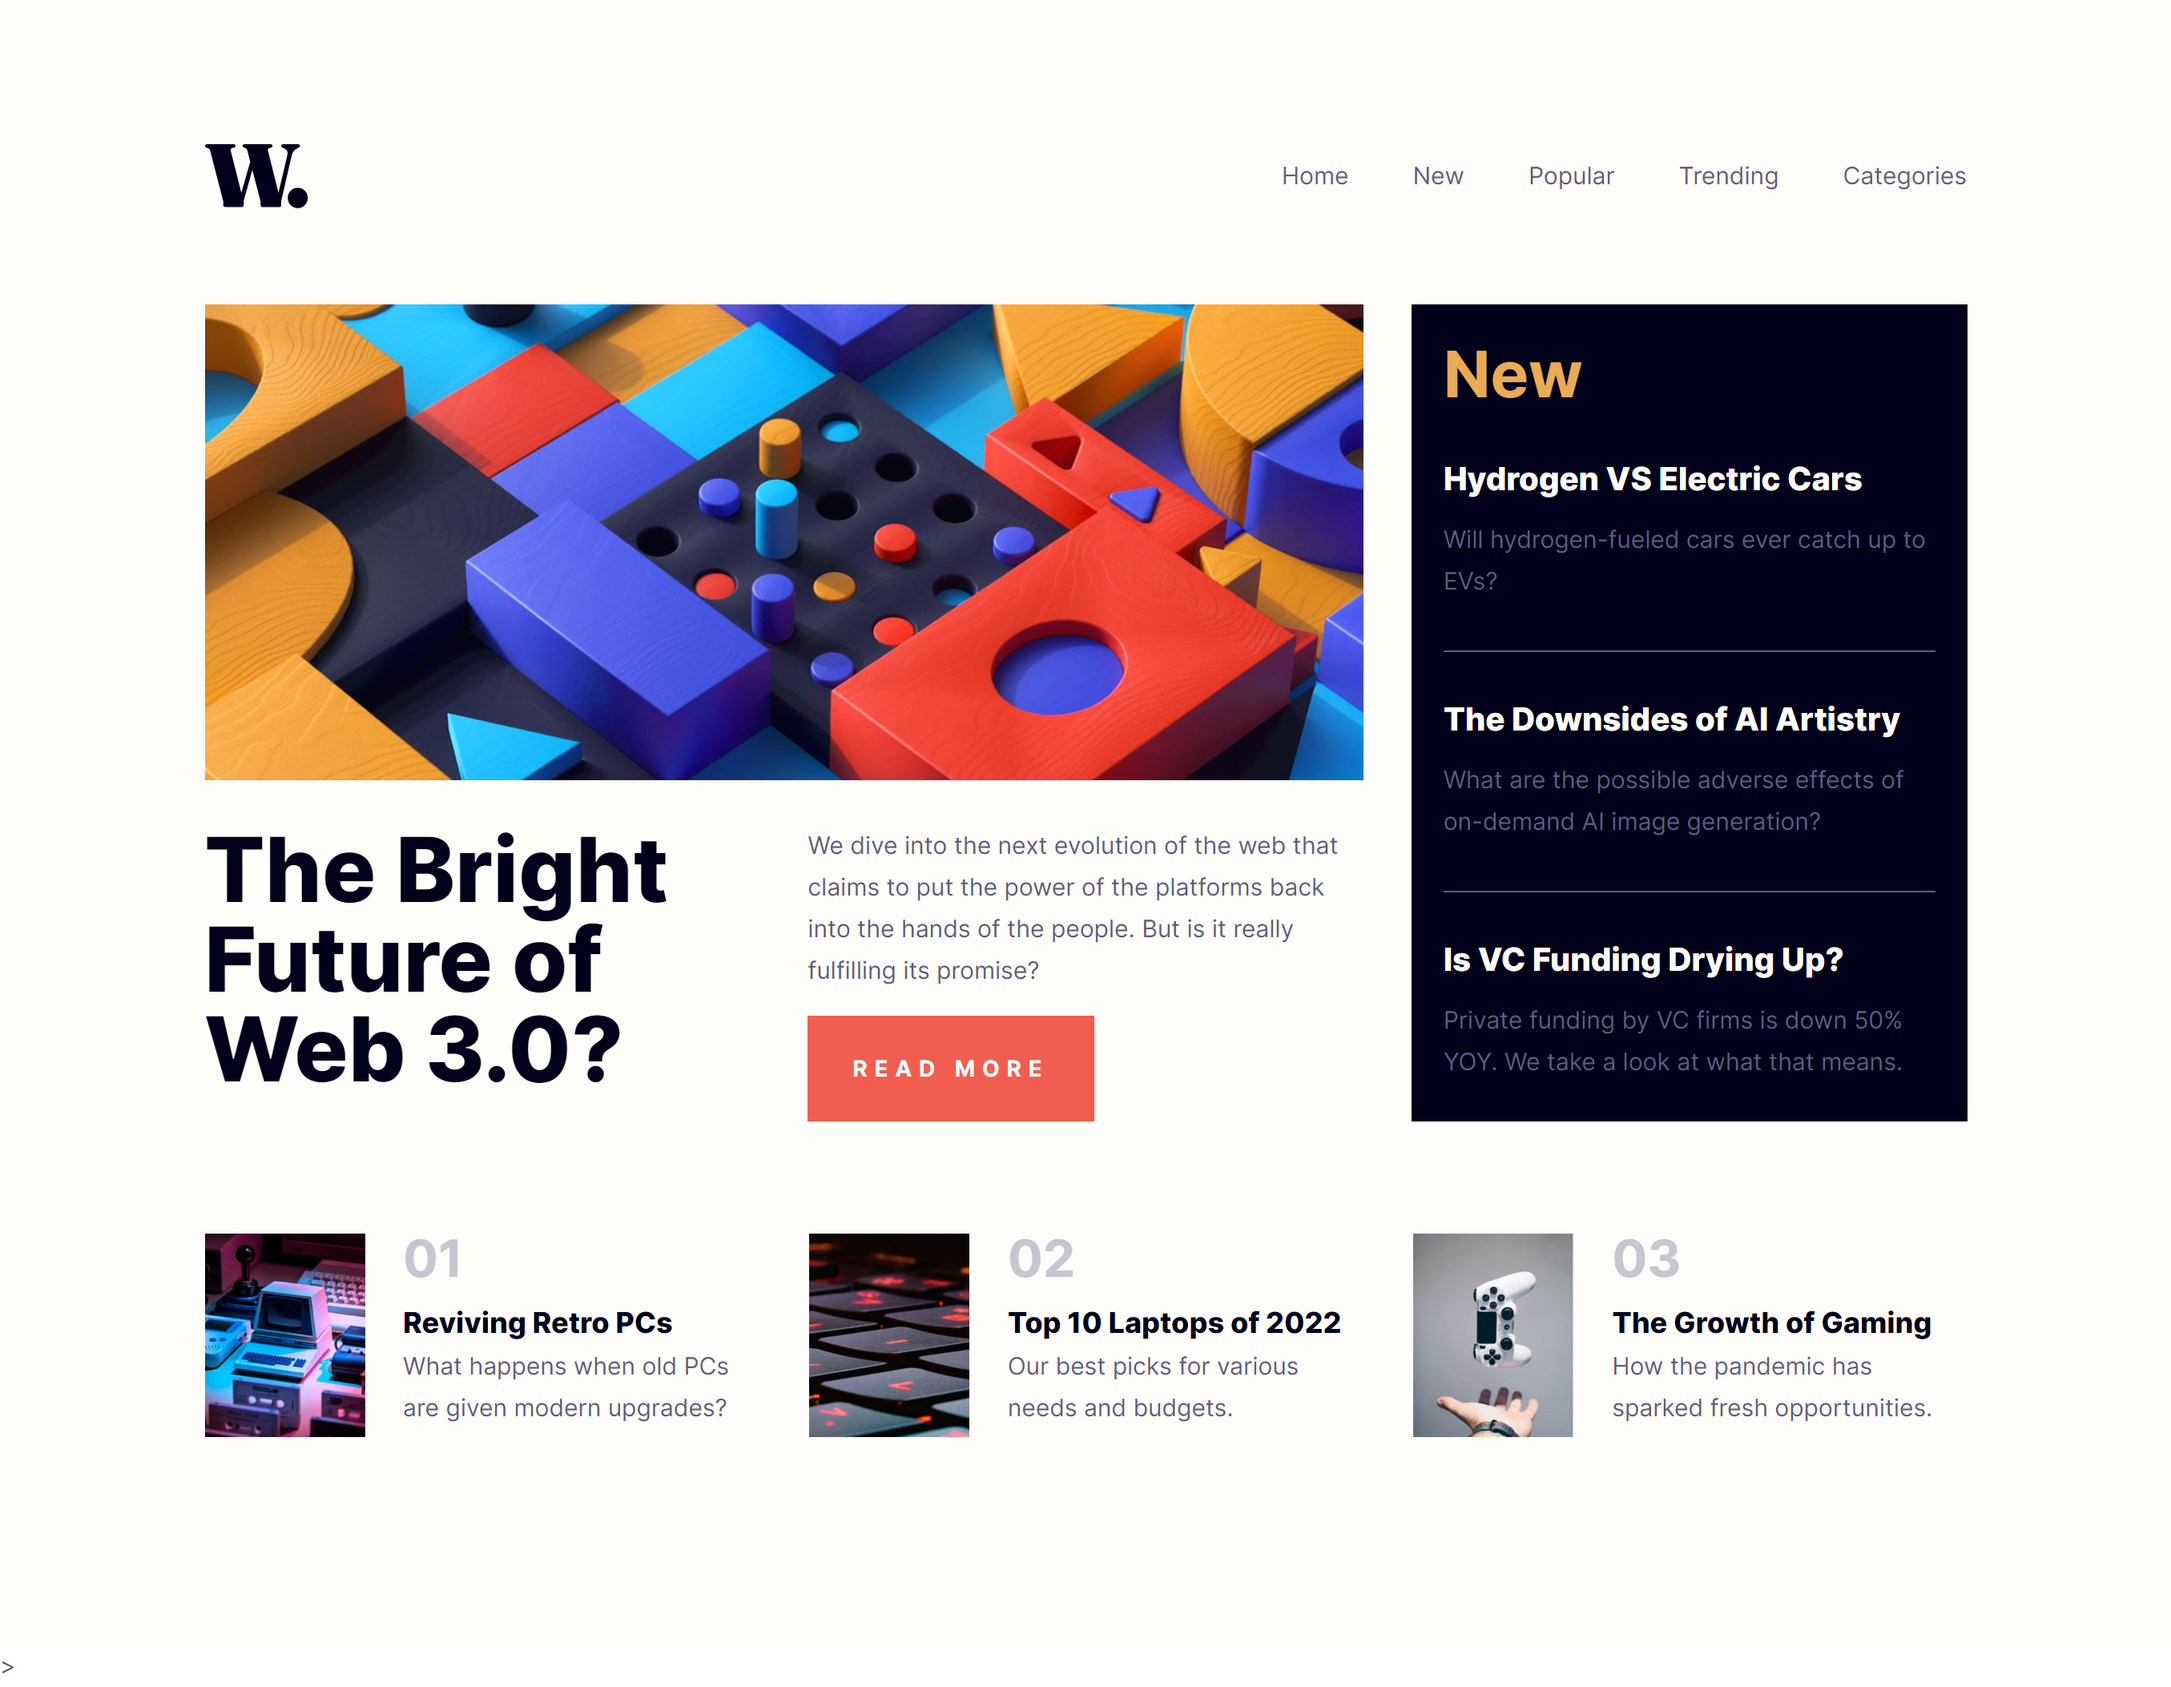
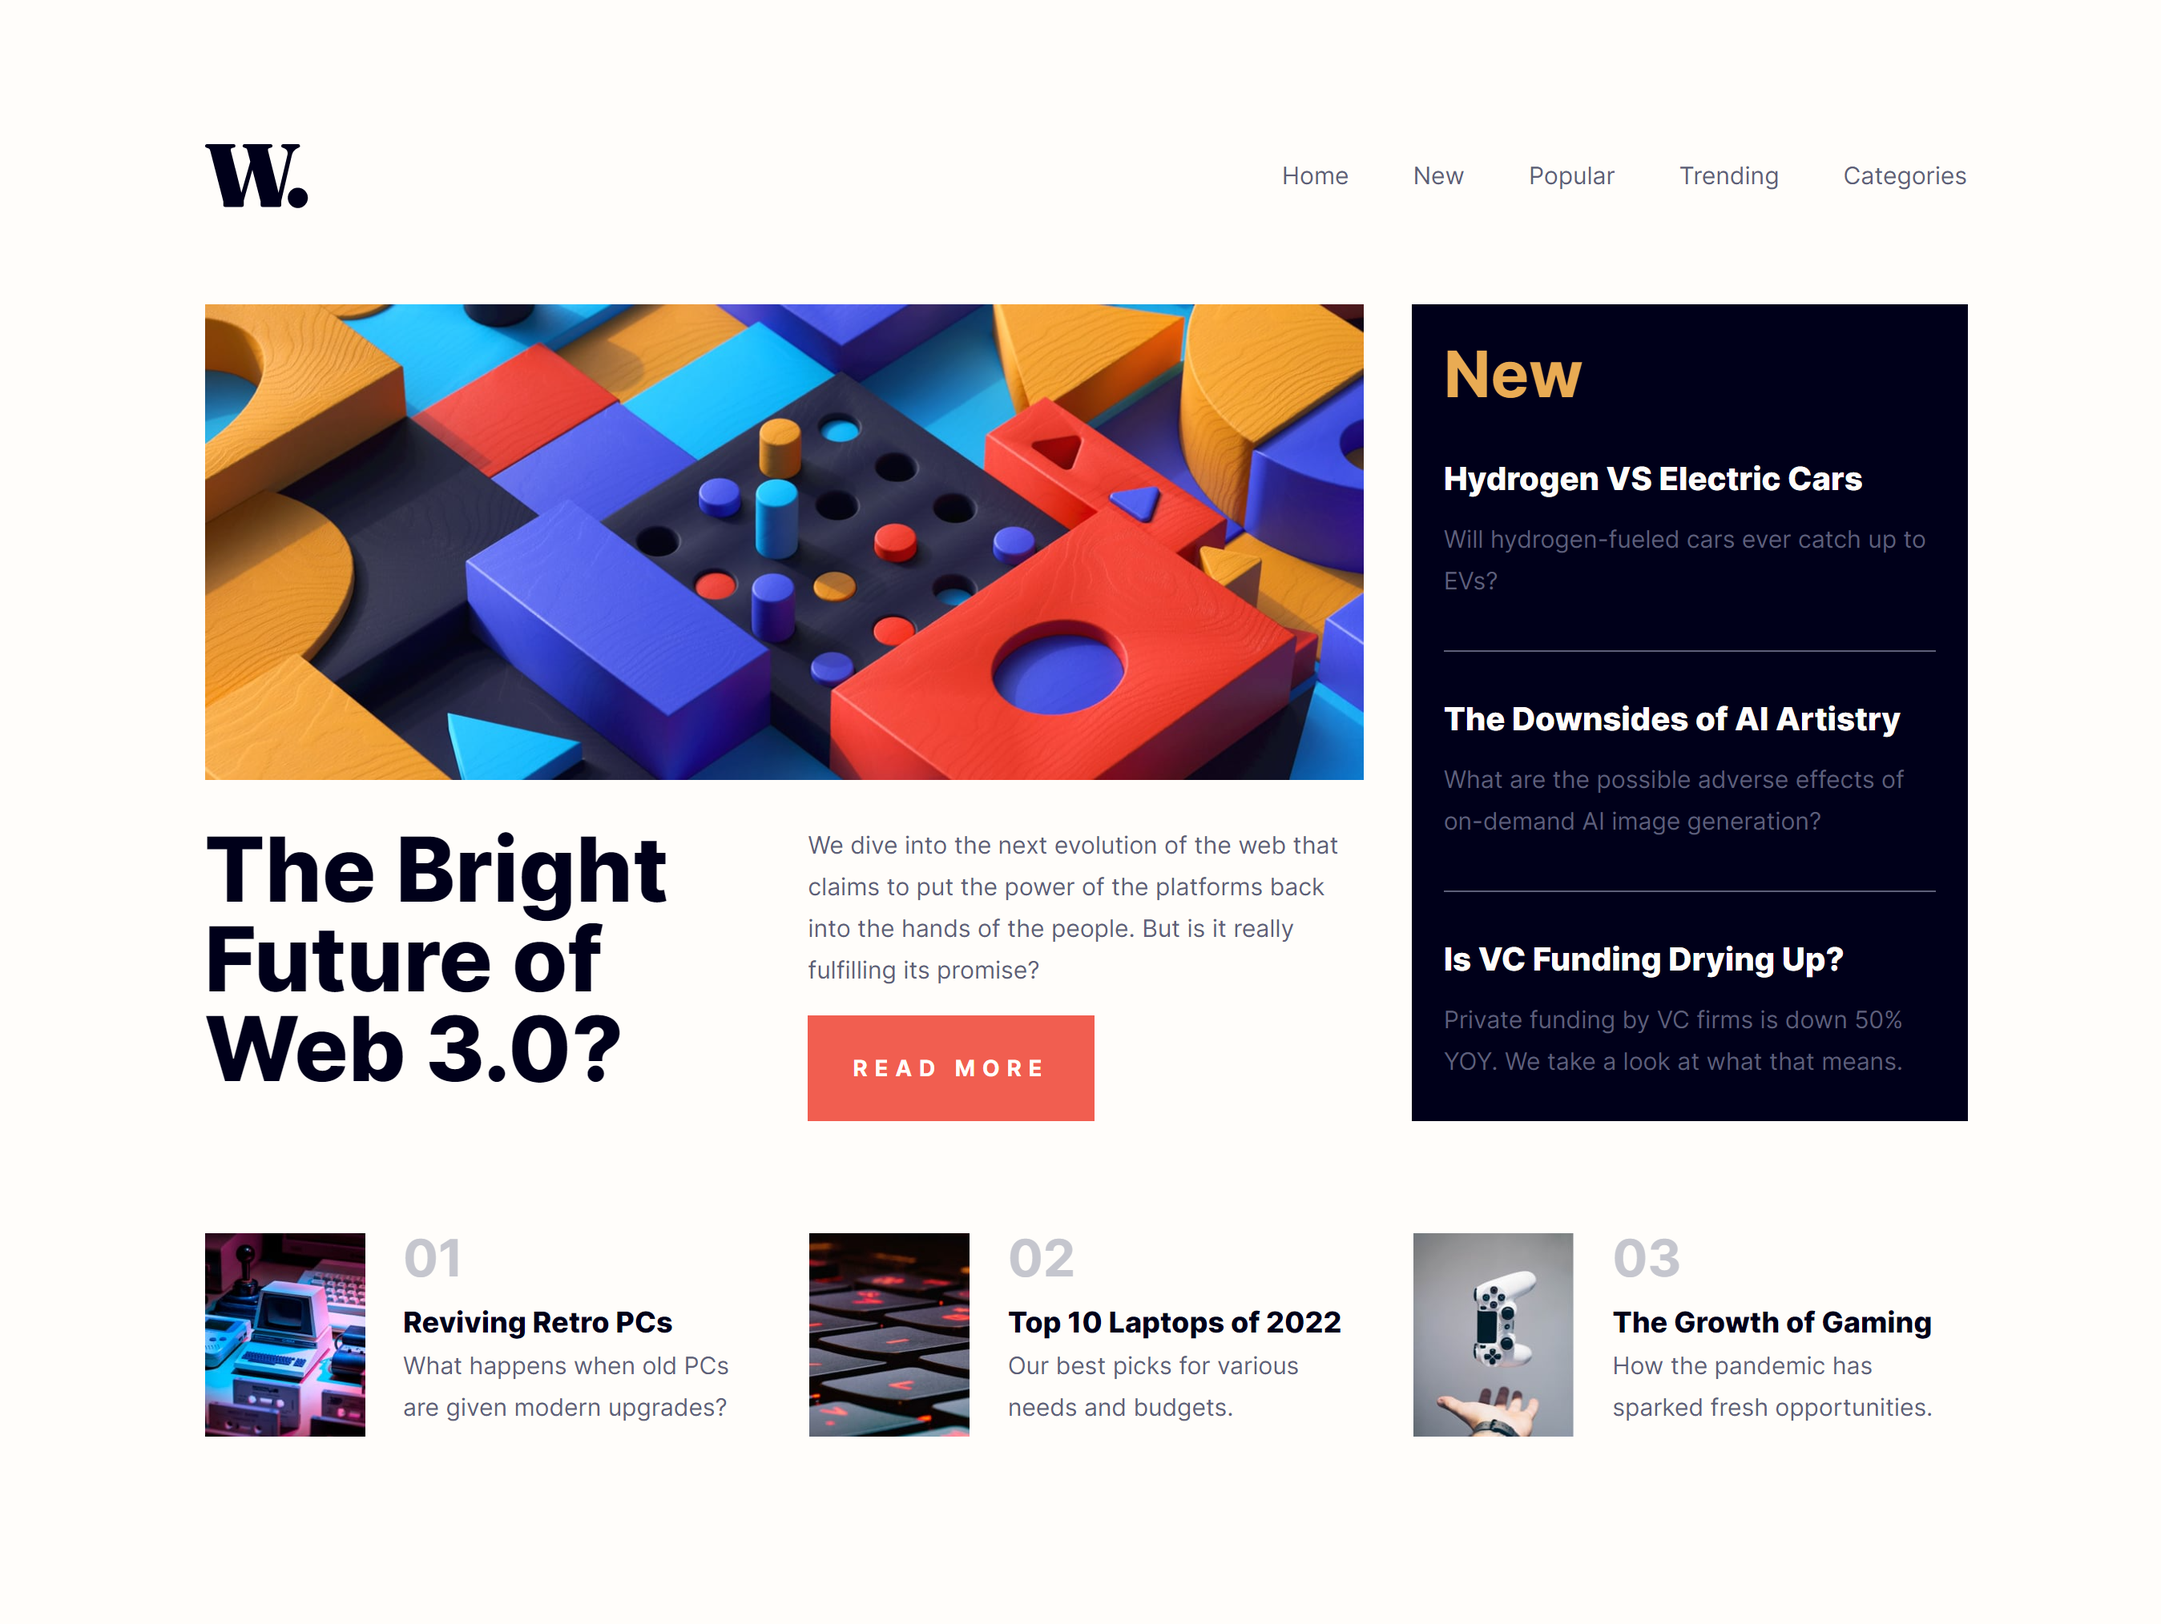
[Style] -improve style

diff --git a/src/components/Main/Main.module.css b/src/components/Main/Main.module.css
@@ -45,7 +45,7 @@
     background-color: var(--soft-red);
     text-decoration: none;
     text-transform: uppercase;
-    padding: 1.5em 2em;
+    padding: 1em 2em;
     margin-right: auto;
     margin-top: auto;
     transition: all 0.3s ease-in;

diff --git a/public/index.html b/public/index.html
@@ -21,6 +21,5 @@
     <body>
         <noscript>You need to enable JavaScript to run this app.</noscript>
         <div id="root"></div>
-        >
     </body>
 </html>

diff --git a/src/components/Main/NewNews/NewNews.module.css b/src/components/Main/NewNews/NewNews.module.css
@@ -25,4 +25,5 @@
 .new-news p {
     margin-top: 10px;
     margin-bottom: 0;
+    color: var(--grayish-blue);
 }
